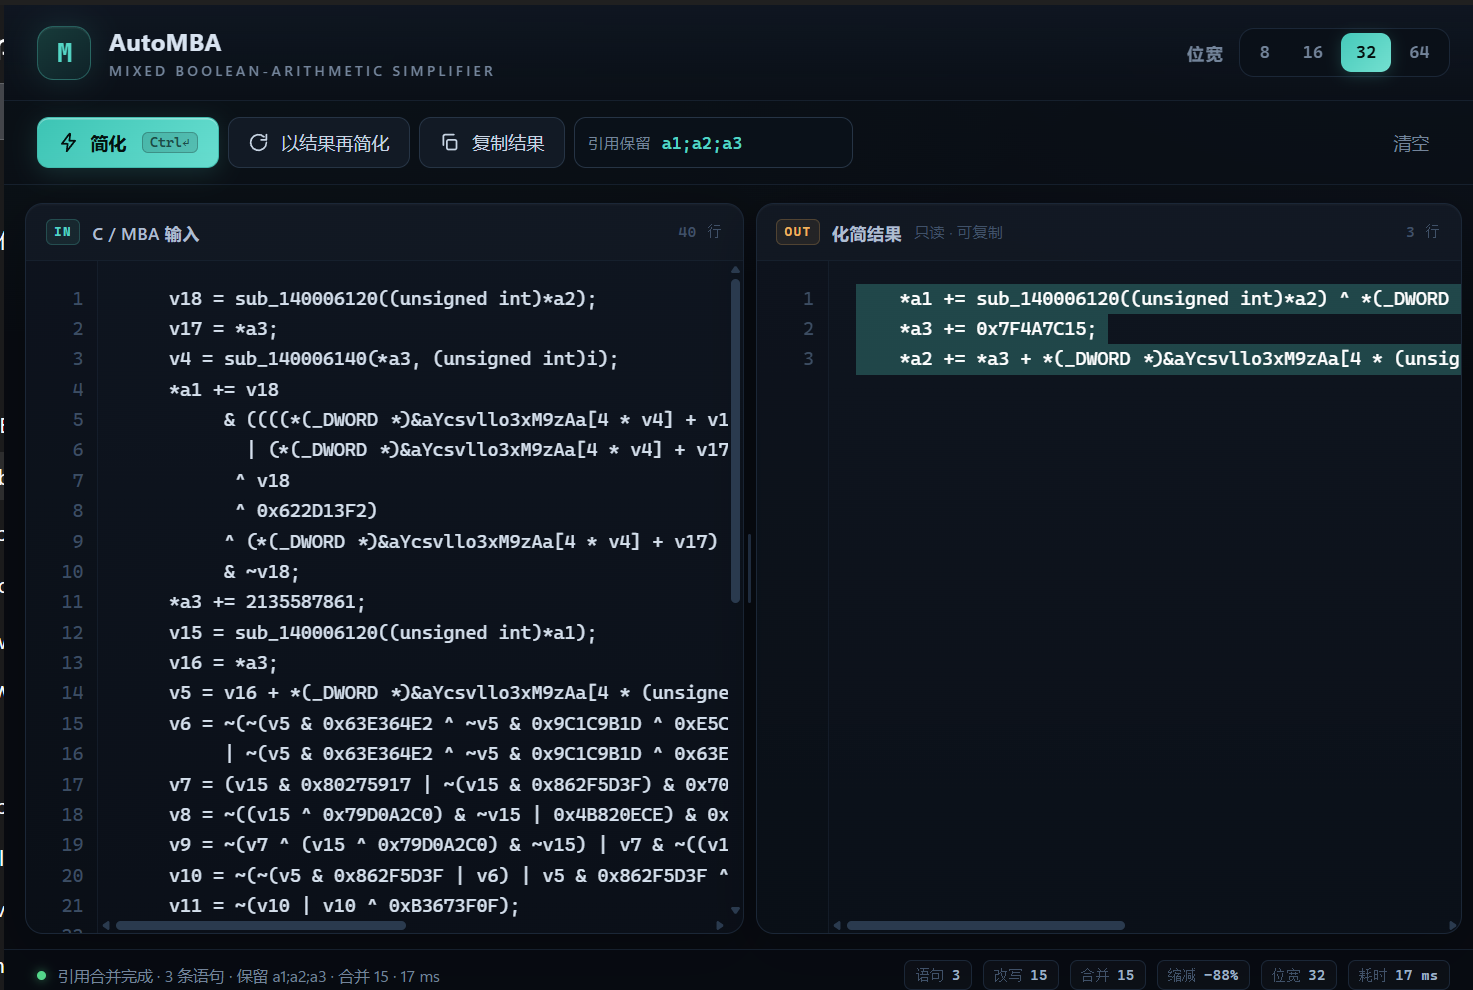
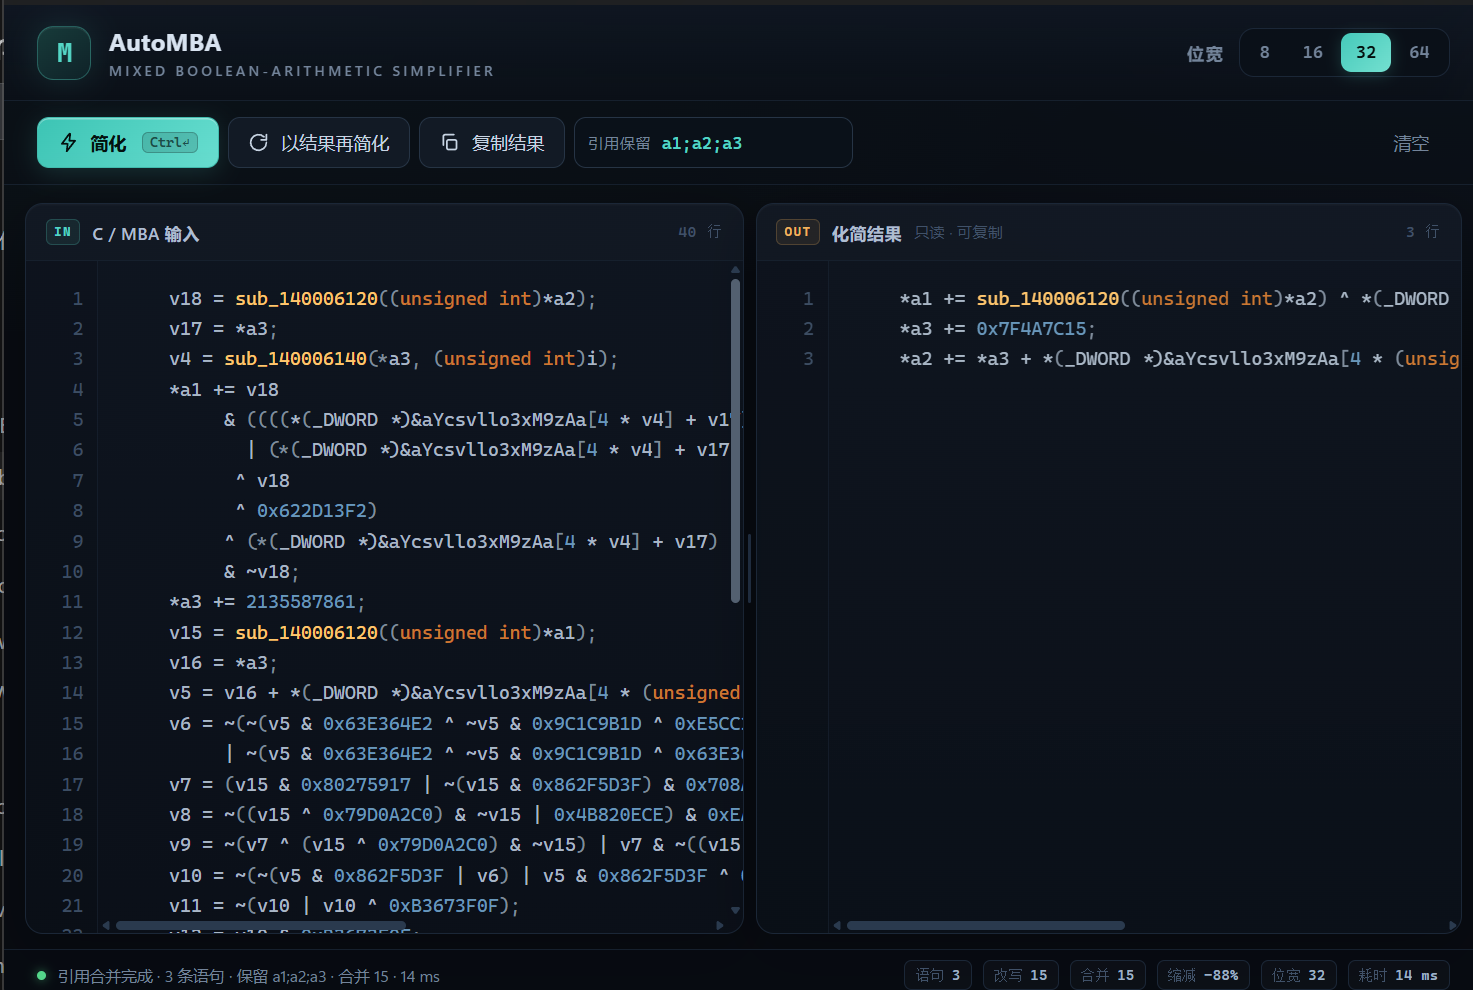
Add CLion-style C syntax highlighting

Changed region(s): [[0.1249, 0.2727, 0.4997, 0.9394], [0.5621, 0.2727, 0.9993, 0.3939], [0.3123, 0.3333, 0.406, 0.3939]]

diff --git a/web/index.html b/web/index.html
@@ -23,6 +23,17 @@
     --mono: "Cascadia Code", "Cascadia Mono", Consolas, "JetBrains Mono", "Fira Code", monospace;
     --ui: "Segoe UI Variable Text", "Segoe UI", "Microsoft YaHei UI", "Microsoft YaHei", sans-serif;
     --split: 50%;
+
+    /* CLion / Darcula code colours */
+    --code-fg: #a9b7c6;
+    --code-keyword: #cc7832;
+    --code-string: #6a8759;
+    --code-number: #6897bb;
+    --code-comment: #808080;
+    --code-function: #ffc66d;
+    --code-macro: #9876aa;
+    --code-preproc: #bbb529;
+    --code-op: #a9b7c6;
   }
 
   * { box-sizing: border-box; }
@@ -120,19 +131,6 @@
     background: linear-gradient(135deg, #45c9ba, #74e0d0);
     box-shadow: 0 2px 10px rgba(84, 214, 197, .2);
   }
-  .engine {
-    display: flex; align-items: center; gap: 7px;
-    color: var(--faint);
-    font-size: 10px;
-    letter-spacing: .8px;
-    text-transform: uppercase;
-  }
-  .engine i {
-    width: 6px; height: 6px; border-radius: 50%;
-    background: var(--green);
-    box-shadow: 0 0 8px rgba(84, 214, 138, .75);
-  }
-
   /* ---------- action bar ---------- */
   .actionbar {
     display: flex;
@@ -299,16 +297,54 @@
     border-right: 1px solid rgba(27, 39, 55, .55);
     background: rgba(0,0,0,.08);
   }
-  textarea {
+  .code-wrap {
+    position: relative;
     flex: 1 1 auto;
     min-width: 0;
+    min-height: 0;
+  }
+  .code-highlight {
+    position: absolute;
+    inset: 0;
+    margin: 0;
+    padding: 15px 18px;
+    overflow: hidden;
+    pointer-events: none;
+    user-select: none;
+    color: var(--code-fg);
+    font: 12.5px/1.62 var(--mono);
+    tab-size: 4;
+    white-space: pre;
+    scrollbar-width: none;
+  }
+  .code-highlight code {
+    font: inherit;
+    color: inherit;
+    white-space: pre;
+  }
+  .code-highlight .tok-keyword { color: var(--code-keyword); }
+  .code-highlight .tok-type { color: var(--code-fg); }
+  .code-highlight .tok-string { color: var(--code-string); }
+  .code-highlight .tok-number { color: var(--code-number); }
+  .code-highlight .tok-comment { color: var(--code-comment); font-style: italic; }
+  .code-highlight .tok-function { color: var(--code-function); }
+  .code-highlight .tok-macro { color: var(--code-macro); }
+  .code-highlight .tok-preproc { color: var(--code-preproc); }
+  .code-highlight .tok-op { color: var(--code-op); }
+  .code-highlight .tok-punct { color: #7f8c9b; }
+  textarea {
+    position: absolute;
+    inset: 0;
+    width: 100%;
+    height: 100%;
     margin: 0;
     padding: 15px 18px;
     border: 0;
     outline: none;
     resize: none;
     background: transparent;
-    color: #d5e0ed;
+    color: transparent;
+    -webkit-text-fill-color: transparent;
     caret-color: var(--accent);
     font: 12.5px/1.62 var(--mono);
     tab-size: 4;
@@ -317,8 +353,12 @@
     scrollbar-color: #2a3a4e transparent;
     scrollbar-width: thin;
   }
-  textarea::placeholder { color: #3c4d63; opacity: 1; }
-  #output { color: #cfe4e0; }
+  textarea::placeholder {
+    color: #3c4d63;
+    -webkit-text-fill-color: #3c4d63;
+    opacity: 1;
+  }
+  textarea::selection { background: rgba(33, 102, 160, .42); }
   #output::placeholder { color: #3c4d63; }
   textarea::-webkit-scrollbar { width: 11px; height: 11px; }
   textarea::-webkit-scrollbar-thumb {
@@ -407,7 +447,6 @@
   .toast.show { opacity: 1; transform: translate(-50%, 0); }
 
   @media (max-width: 1180px) {
-    .engine { display: none; }
     .hint { display: none; }
     .top-right { gap: 10px; }
     .actionbar { gap: 6px; }
@@ -430,7 +469,7 @@
     }
     .splitter { cursor: row-resize; }
     .splitter span { width: 46px; height: 2px; }
-    .engine, .hint, .brand .sub { display: none; }
+    .hint, .brand .sub { display: none; }
     .topbar, .actionbar { padding-left: 12px; padding-right: 12px; }
     .footer { padding: 0 12px; }
     .stats .chip.optional { display: none; }
@@ -448,7 +487,6 @@
       </div>
     </div>
     <div class="top-right">
-      <div class="engine"><i></i> WebView · Local</div>
       <span class="width-label">位宽</span>
       <div class="segmented" id="widthGroup" role="group" aria-label="位宽">
         <button type="button" data-width="8">8</button>
@@ -489,7 +527,10 @@
       </div>
       <div class="editor">
         <div class="gutter" id="inputGutter">1</div>
-        <textarea id="input" spellcheck="false" autocomplete="off" autocorrect="off" autocapitalize="off" wrap="off" aria-label="C 代码输入" placeholder="在这里粘贴 C 代码或 MBA 表达式…&#10;&#10;v6 = ~(~(v5 &amp; 0x63E364E2 ^ ~v5 &amp; 0x9C1C9B1D ^ 0xE5CC39DD) | …);&#10;*a1 += v18 &amp; (…);"></textarea>
+        <div class="code-wrap">
+          <pre class="code-highlight" id="inputHighlight" aria-hidden="true"><code></code></pre>
+          <textarea id="input" spellcheck="false" autocomplete="off" autocorrect="off" autocapitalize="off" wrap="off" aria-label="C 代码输入" placeholder="在这里粘贴 C 代码或 MBA 表达式…&#10;&#10;v6 = ~(~(v5 &amp; 0x63E364E2 ^ ~v5 &amp; 0x9C1C9B1D ^ 0xE5CC39DD) | …);&#10;*a1 += v18 &amp; (…);"></textarea>
+        </div>
       </div>
     </section>
 
@@ -502,7 +543,10 @@
       </div>
       <div class="editor">
         <div class="gutter" id="outputGutter">1</div>
-        <textarea id="output" readonly spellcheck="false" wrap="off" aria-label="化简结果" placeholder="结果会显示在这里…"></textarea>
+        <div class="code-wrap">
+          <pre class="code-highlight" id="outputHighlight" aria-hidden="true"><code></code></pre>
+          <textarea id="output" readonly spellcheck="false" wrap="off" aria-label="化简结果" placeholder="结果会显示在这里…"></textarea>
+        </div>
       </div>
     </section>
   </main>
@@ -529,6 +573,8 @@
   const $ = (id) => document.getElementById(id);
   const input = $("input");
   const output = $("output");
+  const inputCode = document.querySelector("#inputHighlight code");
+  const outputCode = document.querySelector("#outputHighlight code");
   const inputGutter = $("inputGutter");
   const outputGutter = $("outputGutter");
   const inputMeta = $("inputMeta");
@@ -578,14 +624,145 @@
     meta.textContent = n + " 行";
   }
 
-  function syncScroll(ta, gutter) {
+  // CLion / Darcula-inspired C token highlighting.
+  const C_KEYWORDS = new Set((
+    "auto break case char const continue default do double else enum extern float for goto if inline " +
+    "int long register restrict return short signed sizeof static struct switch typedef union unsigned " +
+    "void volatile while _Bool bool true false NULL nullptr"
+  ).split(/\s+/));
+  const C_TYPES = new Set((
+    "_DWORD _QWORD _BYTE _WORD _OWORD DWORD QWORD BYTE WORD OWORD ULONG LONG UINT INT BOOL PVOID HANDLE " +
+    "LPVOID LPSTR LPCSTR uint8_t uint16_t uint32_t uint64_t int8_t int16_t int32_t int64_t size_t ssize_t " +
+    "uintptr_t intptr_t wchar_t __int8 __int16 __int32 __int64 __int128"
+  ).split(/\s+/));
+  const C_OPS = [
+    "<<=", ">>=", "...", "->", "++", "--", "&&", "||", "==", "!=", "<=", ">=",
+    "+=", "-=", "*=", "/=", "%=", "&=", "|=", "^=", "<<", ">>", "::",
+    "+", "-", "*", "/", "%", "&", "|", "^", "~", "!", "<", ">", "=", "?", ":",
+    "(", ")", "[", "]", "{", "}", ";", ",", "."
+  ];
+  const C_PUNCT = new Set(["(", ")", "[", "]", "{", "}", ";", ",", "."]);
+  const C_OPS_BY_FIRST = {};
+  for (const op of C_OPS) (C_OPS_BY_FIRST[op[0]] ||= []).push(op);
+
+  function escapeHTML(s) {
+    return s.replace(/[&<>]/g, (c) => ({ "&": "&amp;", "<": "&lt;", ">": "&gt;" }[c]));
+  }
+
+  function atLineStart(src, i) {
+    let j = i - 1;
+    while (j >= 0 && (src[j] === " " || src[j] === "\t")) j--;
+    return j < 0 || src[j] === "\n";
+  }
+
+  function highlightC(src) {
+    const out = [];
+    const n = src.length;
+    let i = 0;
+    const token = (cls, text) => out.push(`<span class="${cls}">${escapeHTML(text)}</span>`);
+
+    while (i < n) {
+      const c = src[i];
+
+      if (c === "/" && src[i + 1] === "/") {
+        let j = src.indexOf("\n", i);
+        if (j < 0) j = n;
+        token("tok-comment", src.slice(i, j));
+        i = j;
+        continue;
+      }
+      if (c === "/" && src[i + 1] === "*") {
+        let j = src.indexOf("*/", i + 2);
+        j = j < 0 ? n : j + 2;
+        token("tok-comment", src.slice(i, j));
+        i = j;
+        continue;
+      }
+      if (c === '"' || c === "'") {
+        let j = i + 1;
+        while (j < n) {
+          if (src[j] === "\\") { j += 2; continue; }
+          if (src[j] === c) { j++; break; }
+          j++;
+        }
+        token("tok-string", src.slice(i, j));
+        i = j;
+        continue;
+      }
+      if (c === "#" && atLineStart(src, i)) {
+        let j = i;
+        while (j < n) {
+          if (src[j] === "\\" && src[j + 1] === "\n") { j += 2; continue; }
+          if (src[j] === "\n") break;
+          j++;
+        }
+        token("tok-preproc", src.slice(i, j));
+        i = j;
+        continue;
+      }
+      if (/[0-9]/.test(c) || (c === "." && /[0-9]/.test(src[i + 1] || ""))) {
+        const m = src.slice(i).match(/^(?:0[xX][0-9a-fA-F]+|0[bB][01]+|\d+(?:\.\d*)?(?:[eE][+-]?\d+)?)(?:[uUlL]+|[iI]64|UI64)?/);
+        if (m) {
+          token("tok-number", m[0]);
+          i += m[0].length;
+          continue;
+        }
+      }
+      if (/[A-Za-z_]/.test(c)) {
+        let j = i + 1;
+        while (j < n && /[A-Za-z0-9_]/.test(src[j])) j++;
+        const word = src.slice(i, j);
+        let k = j;
+        while (k < n && (src[k] === " " || src[k] === "\t")) k++;
+        if (C_KEYWORDS.has(word)) token("tok-keyword", word);
+        else if (C_TYPES.has(word)) token("tok-type", word);
+        else if (src[k] === "(") token("tok-function", word);
+        else if (/^[A-Z_][A-Z0-9_]*$/.test(word)) token("tok-macro", word);
+        else out.push(escapeHTML(word));
+        i = j;
+        continue;
+      }
+
+      let op = null;
+      for (const cand of (C_OPS_BY_FIRST[c] || [])) {
+        if (src.startsWith(cand, i)) { op = cand; break; }
+      }
+      if (op) {
+        token(C_PUNCT.has(op) ? "tok-punct" : "tok-op", op);
+        i += op.length;
+        continue;
+      }
+      out.push(escapeHTML(c));
+      i++;
+    }
+    return out.join("");
+  }
+
+  function renderHighlight(ta, codeEl) {
+    codeEl.innerHTML = highlightC(ta.value) + (ta.value.endsWith("\n") ? "" : "\n");
+    const pre = codeEl.parentElement;
+    pre.scrollTop = ta.scrollTop;
+    pre.scrollLeft = ta.scrollLeft;
+  }
+
+  let highlightRaf = 0;
+  function scheduleHighlight(ta, codeEl) {
+    cancelAnimationFrame(highlightRaf);
+    highlightRaf = requestAnimationFrame(() => renderHighlight(ta, codeEl));
+  }
+
+  function syncScroll(ta, gutter, codeEl) {
     gutter.scrollTop = ta.scrollTop;
+    const pre = codeEl.parentElement;
+    pre.scrollTop = ta.scrollTop;
+    pre.scrollLeft = ta.scrollLeft;
   }
 
   function setOutput(text) {
     output.value = text || "";
     output.scrollTop = 0;
     output.scrollLeft = 0;
+    renderHighlight(output, outputCode);
     paintGutter(output, outputGutter, outputMeta);
     btnCopy.disabled = !output.value;
     btnDeep.disabled = !output.value || busy;
@@ -650,6 +827,7 @@
       output.value = res.output || "";
       output.scrollTop = 0;
       output.scrollLeft = 0;
+      renderHighlight(output, outputCode);
       paintGutter(output, outputGutter, outputMeta);
       btnCopy.disabled = !output.value;
       btnDeep.disabled = !output.value;
@@ -707,6 +885,7 @@
   btnClear.addEventListener("click", () => {
     input.value = "";
     setOutput("");
+    renderHighlight(input, inputCode);
     paintGutter(input, inputGutter, inputMeta);
     input.focus();
     lastMode = "normal";
@@ -727,13 +906,14 @@
 
   input.addEventListener("input", () => {
     paintGutter(input, inputGutter, inputMeta);
+    scheduleHighlight(input, inputCode);
     updateStats({});
     if (!output.value) {
       $("statReduction").textContent = "—";
     }
   });
-  input.addEventListener("scroll", () => syncScroll(input, inputGutter));
-  output.addEventListener("scroll", () => syncScroll(output, outputGutter));
+  input.addEventListener("scroll", () => syncScroll(input, inputGutter, inputCode));
+  output.addEventListener("scroll", () => syncScroll(output, outputGutter, outputCode));
 
   keepRefsInput.addEventListener("keydown", (e) => {
     if (e.key === "Enter") {
@@ -751,6 +931,7 @@
       input.value = v.slice(0, start) + "    " + v.slice(end);
       input.selectionStart = input.selectionEnd = start + 4;
       paintGutter(input, inputGutter, inputMeta);
+      scheduleHighlight(input, inputCode);
       return;
     }
     if (e.key === "Enter" && (e.ctrlKey || e.metaKey)) {
@@ -782,6 +963,8 @@
   });
 
   // Initial state.
+  renderHighlight(input, inputCode);
+  renderHighlight(output, outputCode);
   paintGutter(input, inputGutter, inputMeta);
   paintGutter(output, outputGutter, outputMeta);
   updateStats({});

diff --git a/README.md b/README.md
@@ -7,6 +7,7 @@
 ## 功能
 
 - **双栏深色 IDE 界面**：左侧 C/MBA 输入，右侧只读结果（可选中、可复制）。
+- **CLion / Darcula 风格代码高亮**：C 关键字、类型、数字、字符串、注释、函数名分色显示，输入与结果同步高亮。
 - **简化**：自动识别赋值、`+=`、`return` 和裸表达式中的 MBA，并逐条化简。
 - **以结果再简化**：把右侧结果作为输入，传播直线代码中纯标量变量的定义后再化简，常能跨多条语句折叠。
 - **引用保留**：输入 `a1;a2;a3` 后，只保留这些根引用对应的语句，其余局部临时变量做数据流内联合并。对示例代码会直接压成 `*a1` / `*a3` / `*a2` 三条语句。
